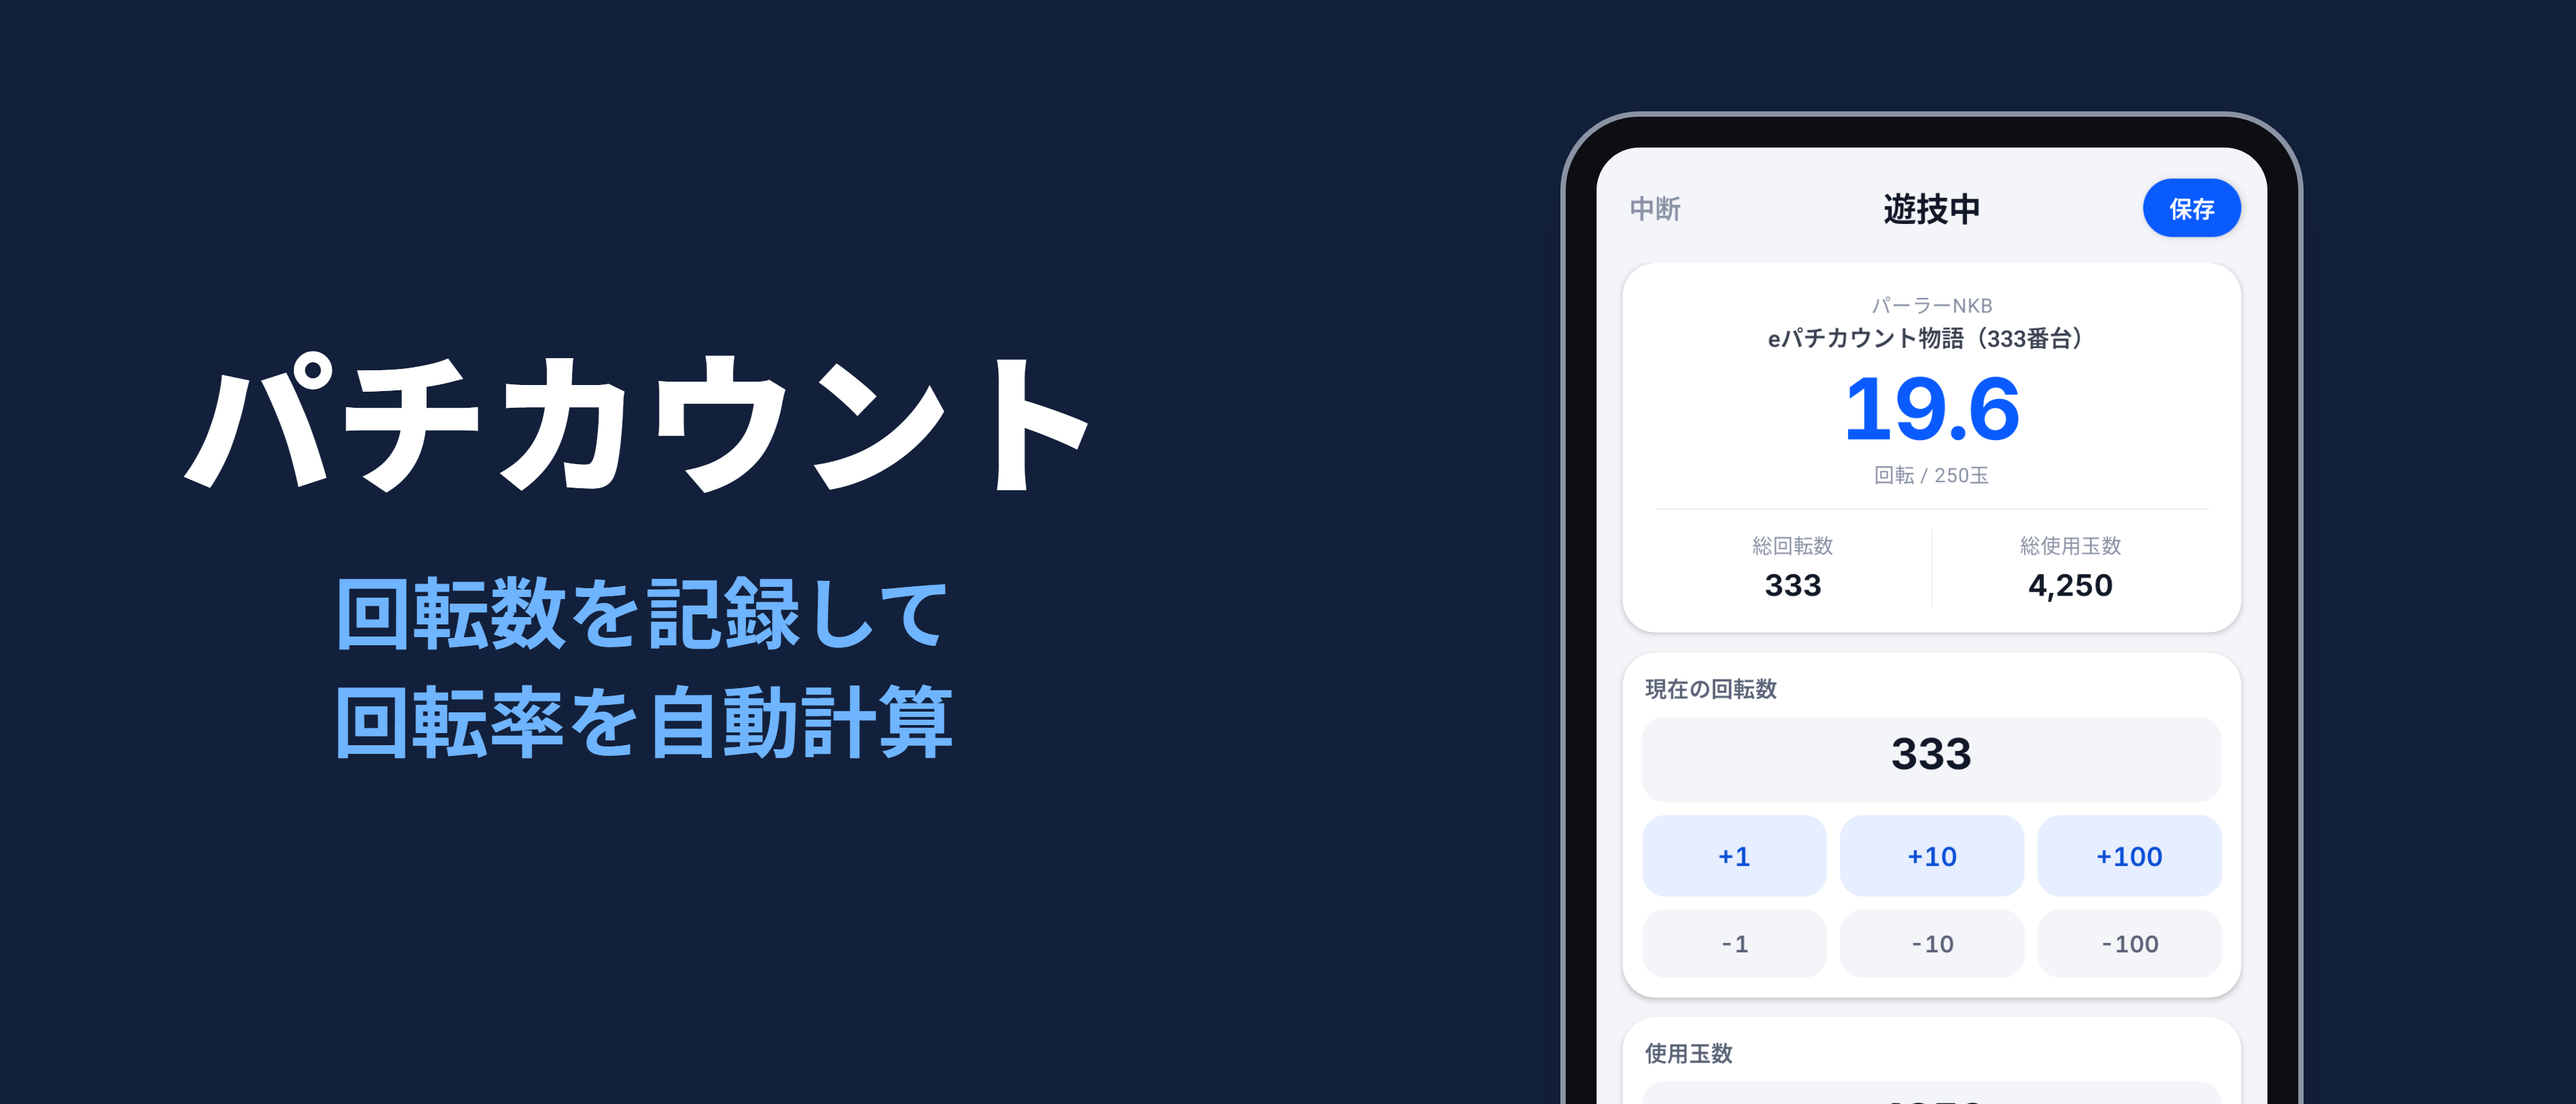
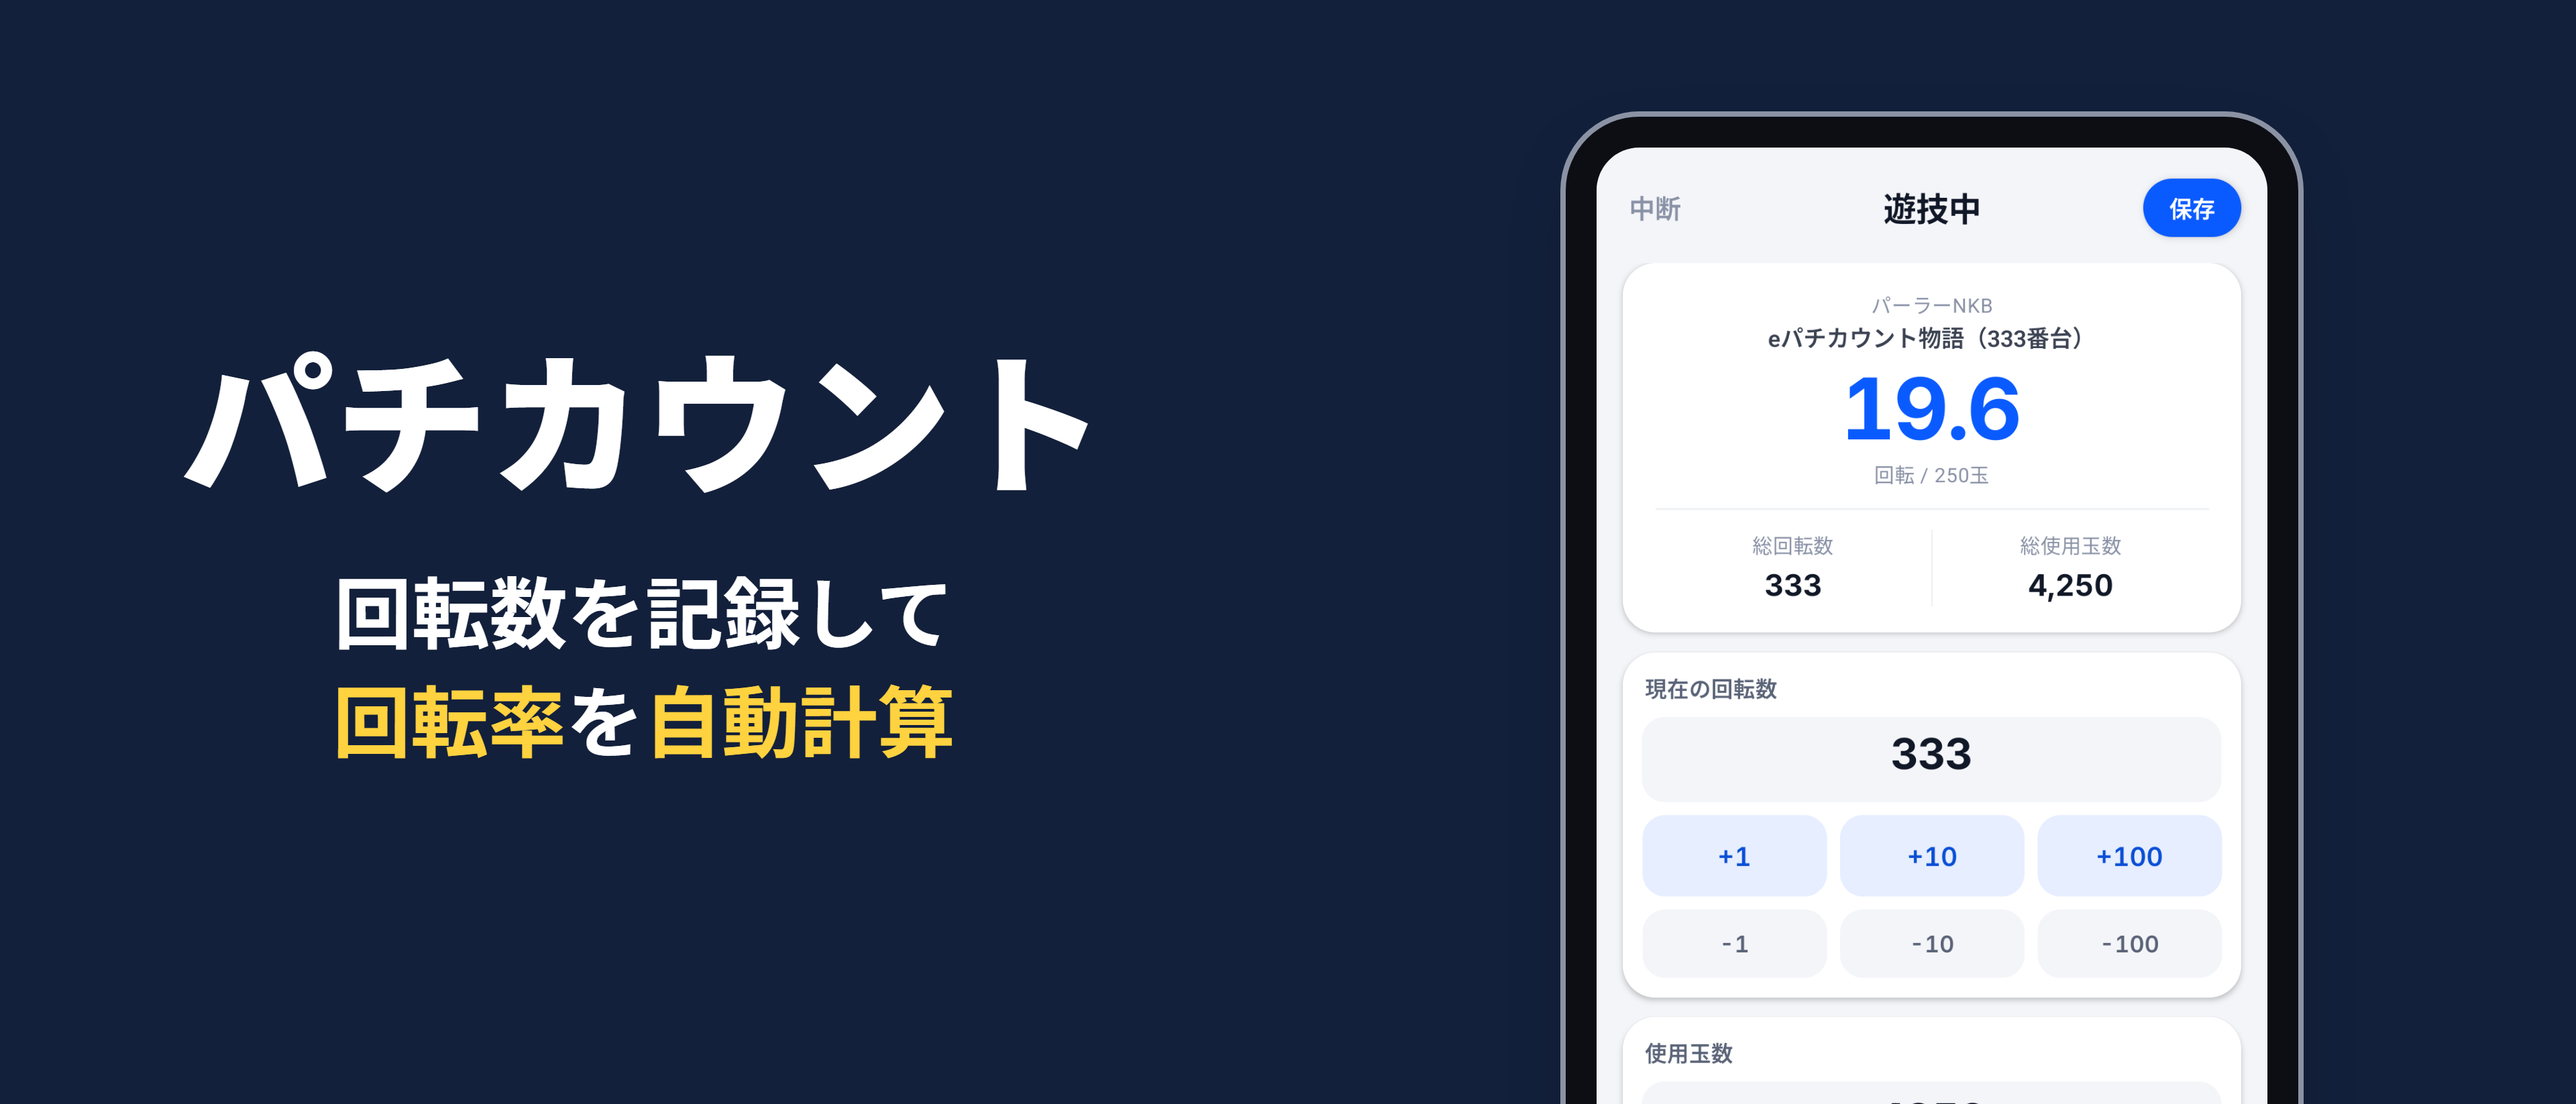
App Store のヘッダと検索結果の画像を、一言の「回転率」「自動計算」だけ黄色にして作り直す

Changed region(s): [[0.125, 0.6197, 0.375, 0.6817], [0.125, 0.5267, 0.375, 0.5887]]

diff --git a/scripts/appstore-art.html b/scripts/appstore-art.html
@@ -46,7 +46,18 @@ const nameEl = document.getElementById('name');
 const tagEl = document.getElementById('tag');
 nameEl.textContent = c.name;
 nameEl.style.color = c.colors.name;
-tagEl.textContent = c.tag;
+// 一言の [ ] で囲んだ所は colors.em の色で強調する
+c.tag.split(/(\[[^\]]*\])/).forEach((part) => {
+  if (!part) return;
+  if (part.startsWith('[')) {
+    const em = document.createElement('span');
+    em.textContent = part.slice(1, -1);
+    em.style.color = c.colors.em || c.colors.tag;
+    tagEl.appendChild(em);
+  } else {
+    tagEl.appendChild(document.createTextNode(part));
+  }
+});
 tagEl.style.color = c.colors.tag;
 if (c.kind === 'search') nameEl.remove();
 

diff --git a/STORE_LISTING.md b/STORE_LISTING.md
@@ -206,3 +206,7 @@ Google Play 用と App Store 用で、項目名も文字数の上限も違うの
 確認用（上げない）: `assets/store/appstore/appstore-check-<言語>.png`
 
 2026-10-18 確認：アセットライブラリで 2 枚とも「承認済み」。公開中の 1.3.1 の「ヘッダと検索結果」には、ヘッダ・検索結果とも 1／1 でこの 2 枚がすでに入っていて、再読み込みしても残り、選び直す画像は残っていなかった（Browse Assets の候補は 0 件）。こちらでの操作・公開ボタンは不要だった。
+
+2026-10-19 作り直し：一言の「回転率」「自動計算」だけ黄色（#ffd23f）、ほかの字は白に変えた（設定の一言で `[ ]` で囲んだ所が `em` の色になる）。
+アセットライブラリへ上げ直して審査に通し、公開中の版の「ヘッダと検索結果」で新しい 2 枚に選び替える必要がある（まだ）。
+Google Play にはこの 2 枚に当たる枠がない。近いのはフィーチャーグラフィック（`assets/feature-graphic.png`）で、こちらは 2026-09 から変えていない。
